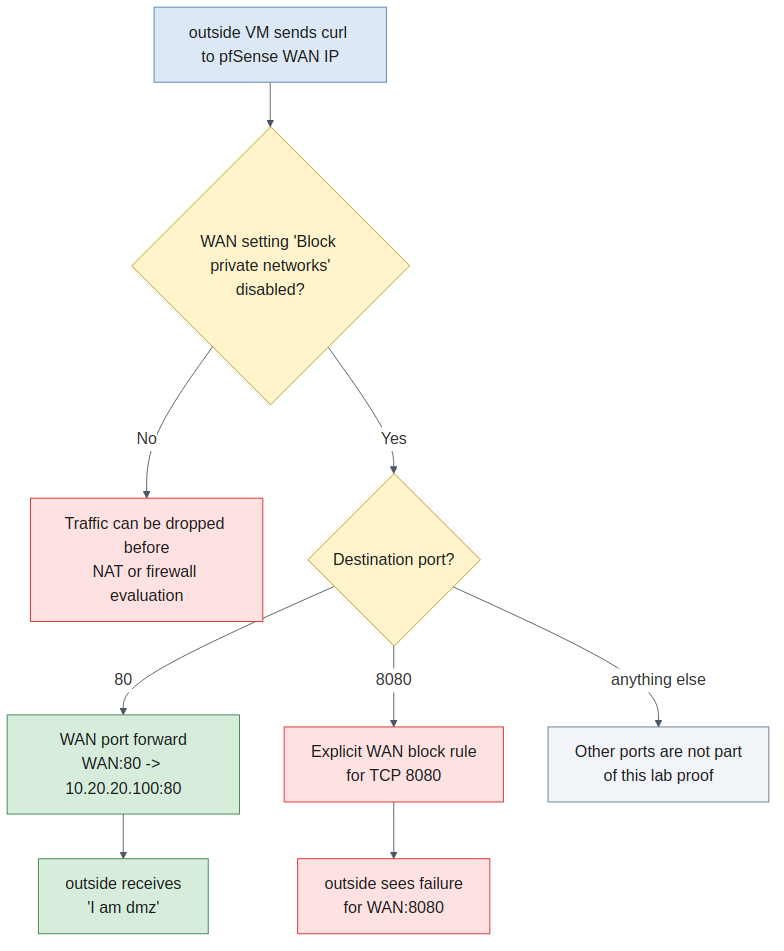
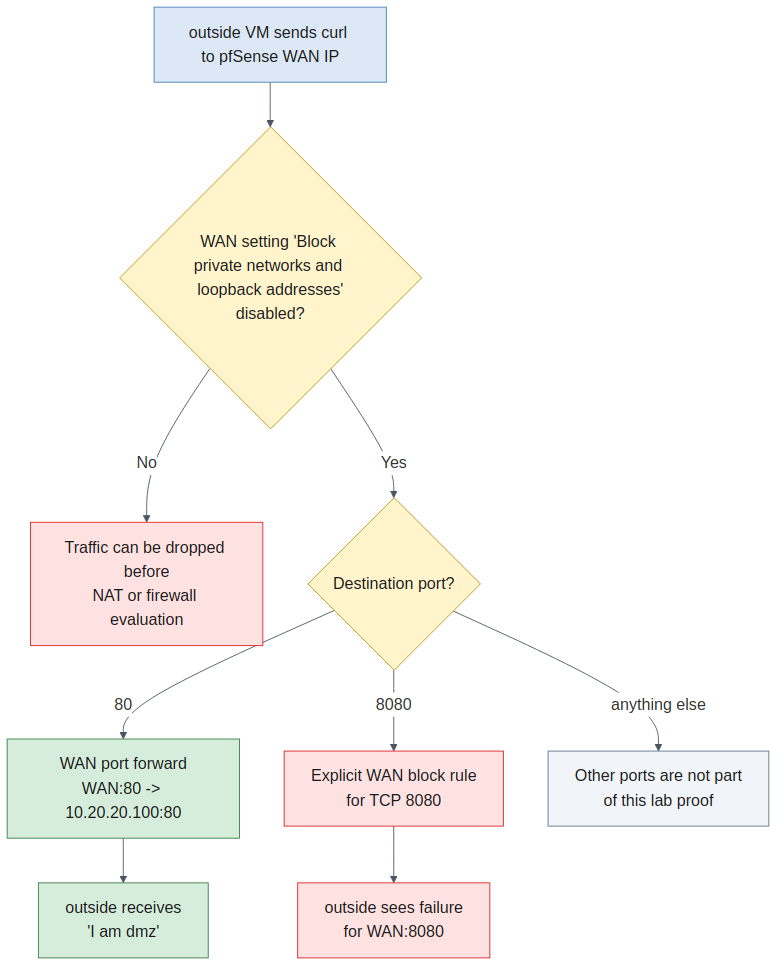
Tighten pfSense WAN diagram wording

diff --git a/labs/210-pfsense-wan-lan-dmz-tour/03_inspect-wan-rules-and-nat.md b/labs/210-pfsense-wan-lan-dmz-tour/03_inspect-wan-rules-and-nat.md
@@ -139,7 +139,7 @@ This gives you a clean public-vs-internal-only proof later:
 
 Use this quick path diagram as a memory aid for those two inbound `WAN` tests. It does not replace the real `curl` proof on the next page.
 
-![WAN inbound decision diagram showing outside sending traffic to the pfSense WAN IP, the need to disable Block private networks on WAN, port 80 forwarding to 10.20.20.100:80, and port 8080 being explicitly blocked.](assets/images/pfsense-wan-inbound-path.png)
+![WAN inbound decision diagram showing outside sending traffic to the pfSense WAN IP, the need to disable Block private networks and loopback addresses on WAN, port 80 forwarding to 10.20.20.100:80, and port 8080 being explicitly blocked.](assets/images/pfsense-wan-inbound-path.png)
 
 Diagram source: [Mermaid](assets/images/pfsense-wan-inbound-path.mmd)
 

diff --git a/labs/210-pfsense-wan-lan-dmz-tour/04_test-and-prove-traffic.md b/labs/210-pfsense-wan-lan-dmz-tour/04_test-and-prove-traffic.md
@@ -65,7 +65,7 @@ Replace `<PFSENSE_WAN_IP>` with the current pfSense `WAN` IP you recorded.
 
 Do **not** use the `outside` VM's own IP in these commands.
 
-This is the same public-vs-blocked path shown in the page 03 `WAN` diagram:
+This is the same public-vs-blocked path shown in the page 03 **WAN inbound decision** diagram:
 
 - `outside -> WAN:80` should forward to the public `DMZ` page
 - `outside -> WAN:8080` should fail
